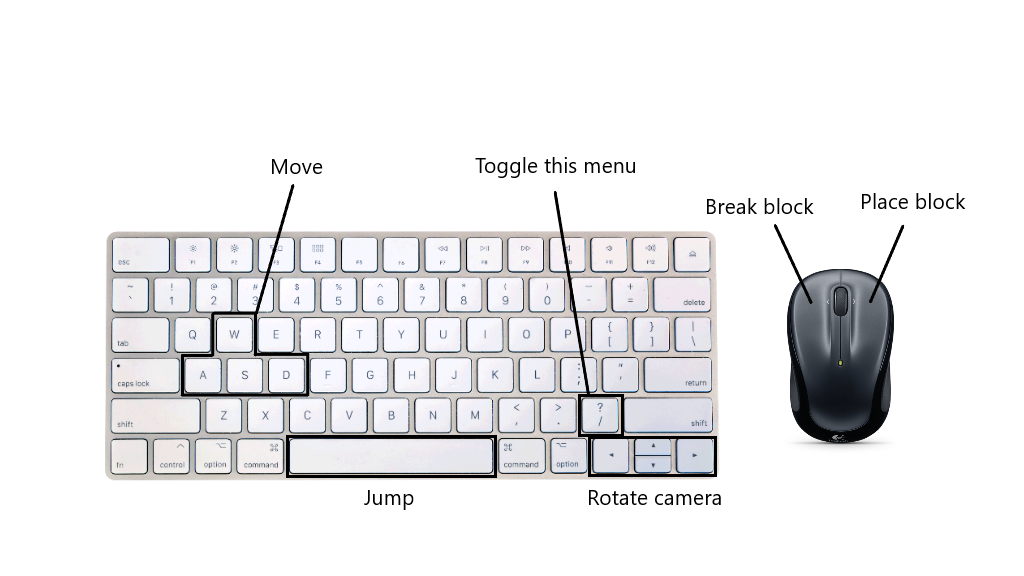
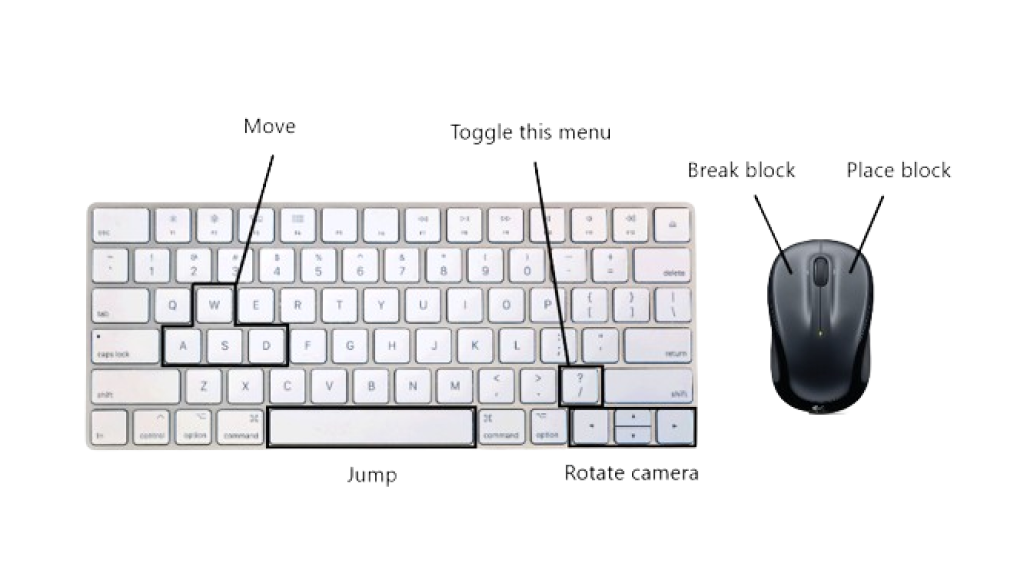
tweak the look of controls menu

diff --git a/Controls.java b/Controls.java
@@ -10,7 +10,7 @@ public class Controls extends Sprite<MainGame>
     public Controls(MainGame scene) {
         super(scene, scene.w / 2, scene.h / 2);
         this.setImage(new GreenfootImage("controls.png"));
-        this.image.setTransparency(150);
+        this.image.setTransparency(200);
     }
     
     public void toggle() {
